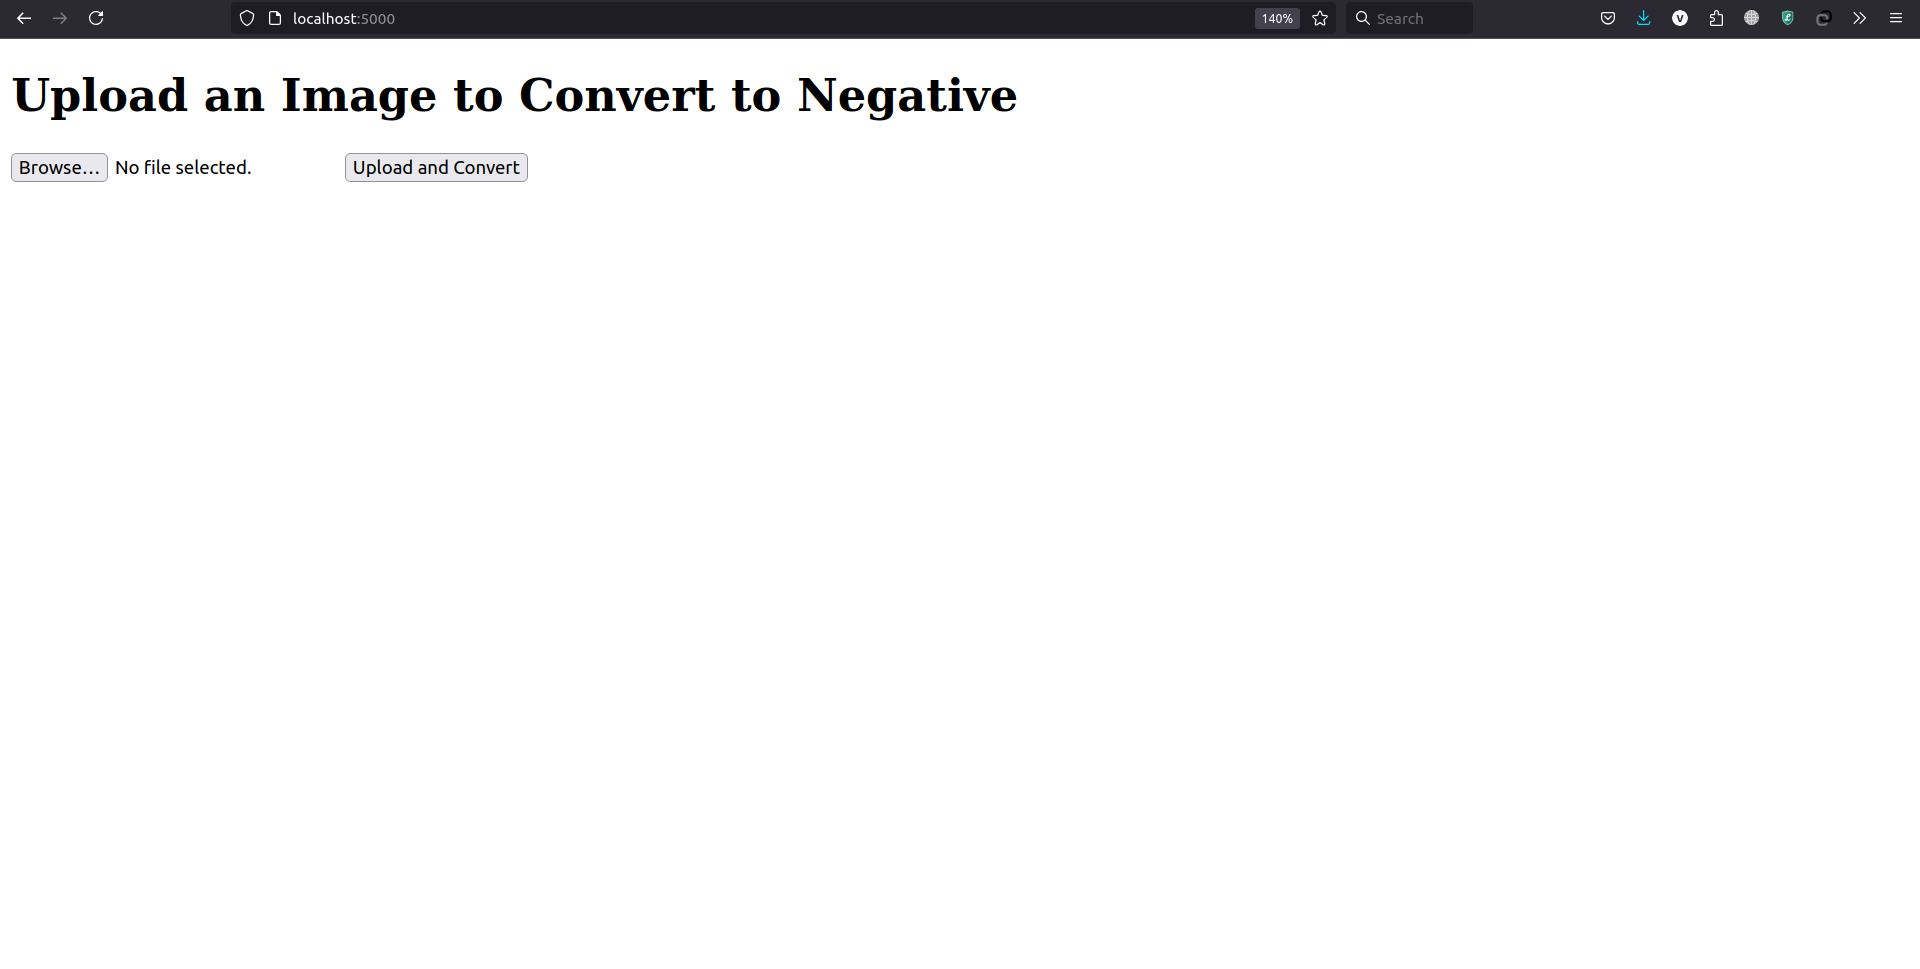
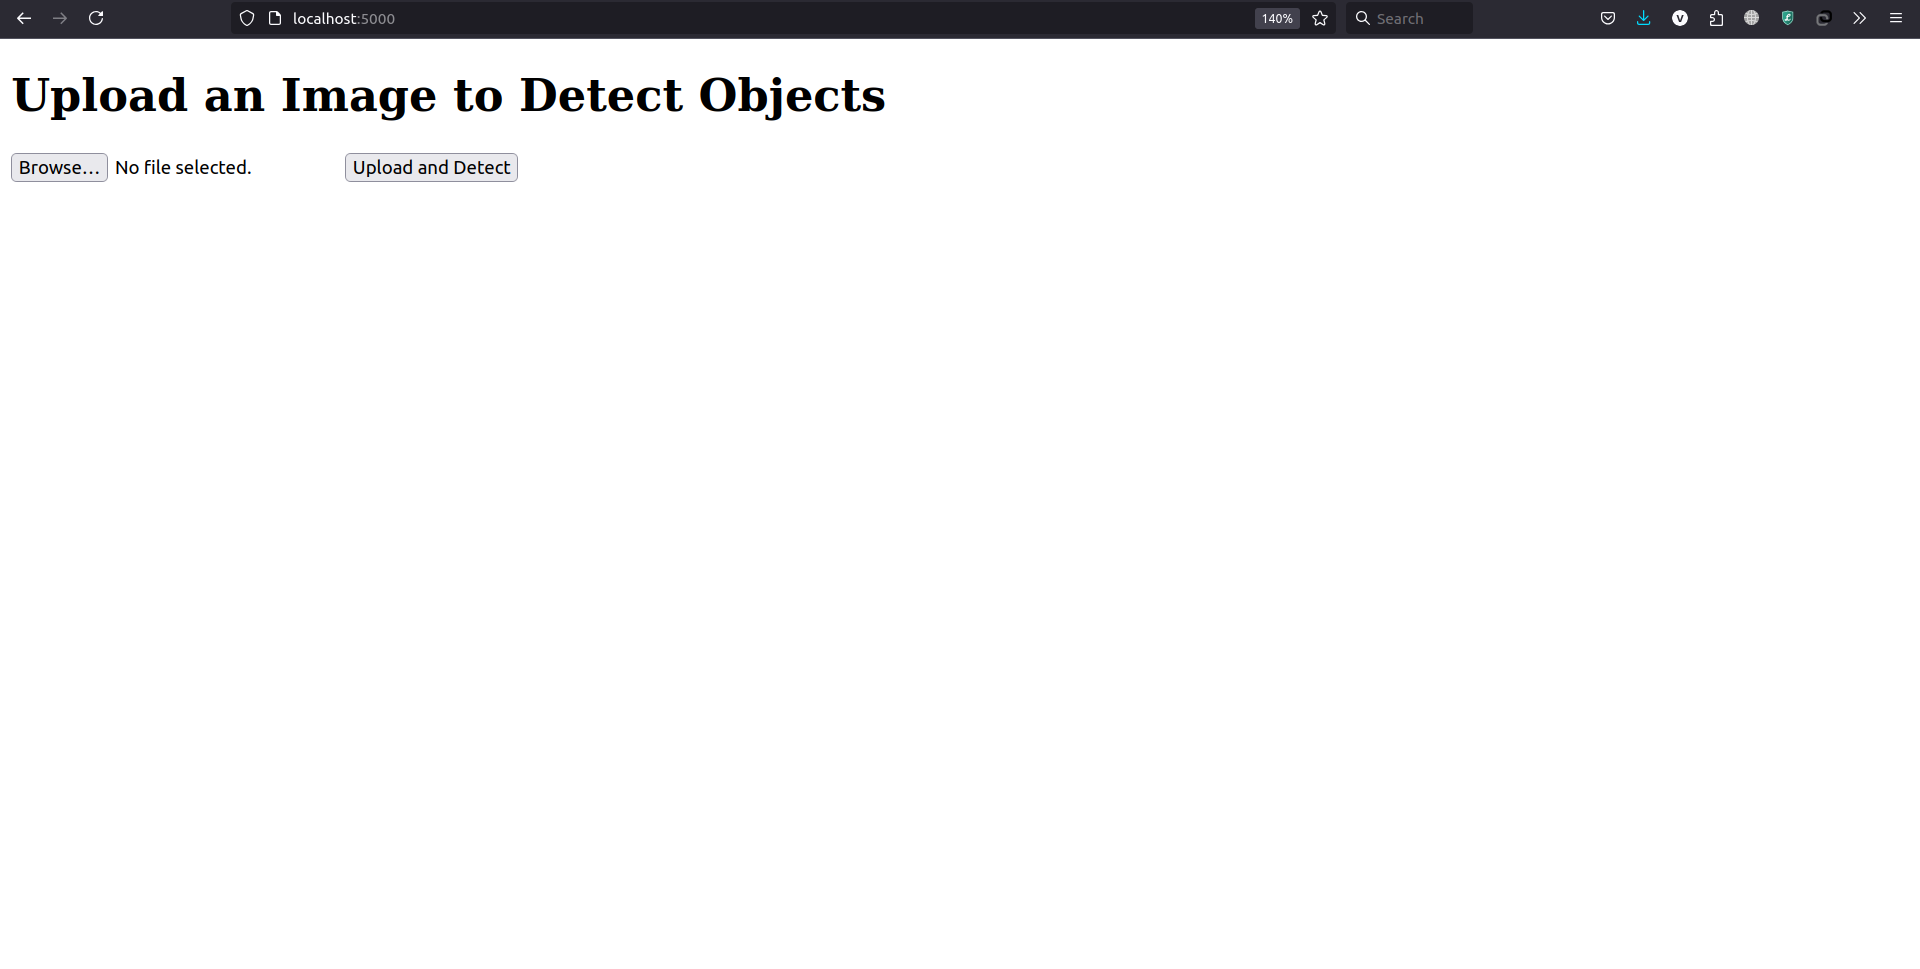
added results

Changed region(s): [[0.25, 0.0619, 0.5312, 0.1238], [0.2188, 0.1548, 0.2812, 0.1858]]

diff --git a/app/templates/index.html b/app/templates/index.html
@@ -6,7 +6,7 @@
     <title>Detect Objects</title>
 </head>
 <body>
-    <h1>Upload an Image to Deteckt Objects</h1>
+    <h1>Upload an Image to Detect Objects</h1>
     <form method="POST" enctype="multipart/form-data">
         <input type="file" name="file" accept="image/*">
         <button type="submit">Upload and Detect</button>
@@ -16,7 +16,7 @@
         <h2>Original Image:</h2>
         <img src="{{ url_for('static', filename='output/' + original_image) }}" alt="Original Image" width="300">
         
-        <h2>Negative Image:</h2>
+        <h2>Processed  Image:</h2>
         <img src="{{ url_for('static', filename='output/' + processed_image) }}" alt="Processed Image" width="300">
     {% endif %}
 </body>

diff --git a/README.md b/README.md
@@ -14,3 +14,24 @@ Then you have to browse image. After that, you have to push down button "Upload 
 To download the processed image you have to click right button mouse and click "Save Image As..."
 
 ![image](images/report_3.png)
+
+
+## Results
+
+Original:
+![image](images/orig_1.jpg)
+
+Result:
+![image](images/res_1.jpg)
+
+Original:
+![image](images/orig_2.jpg)
+
+Result:
+![image](images/res_2.jpg)
+
+Original:
+![image](images/orig_3.jpg)
+
+Result:
+![image](images/res_3.jpg)
